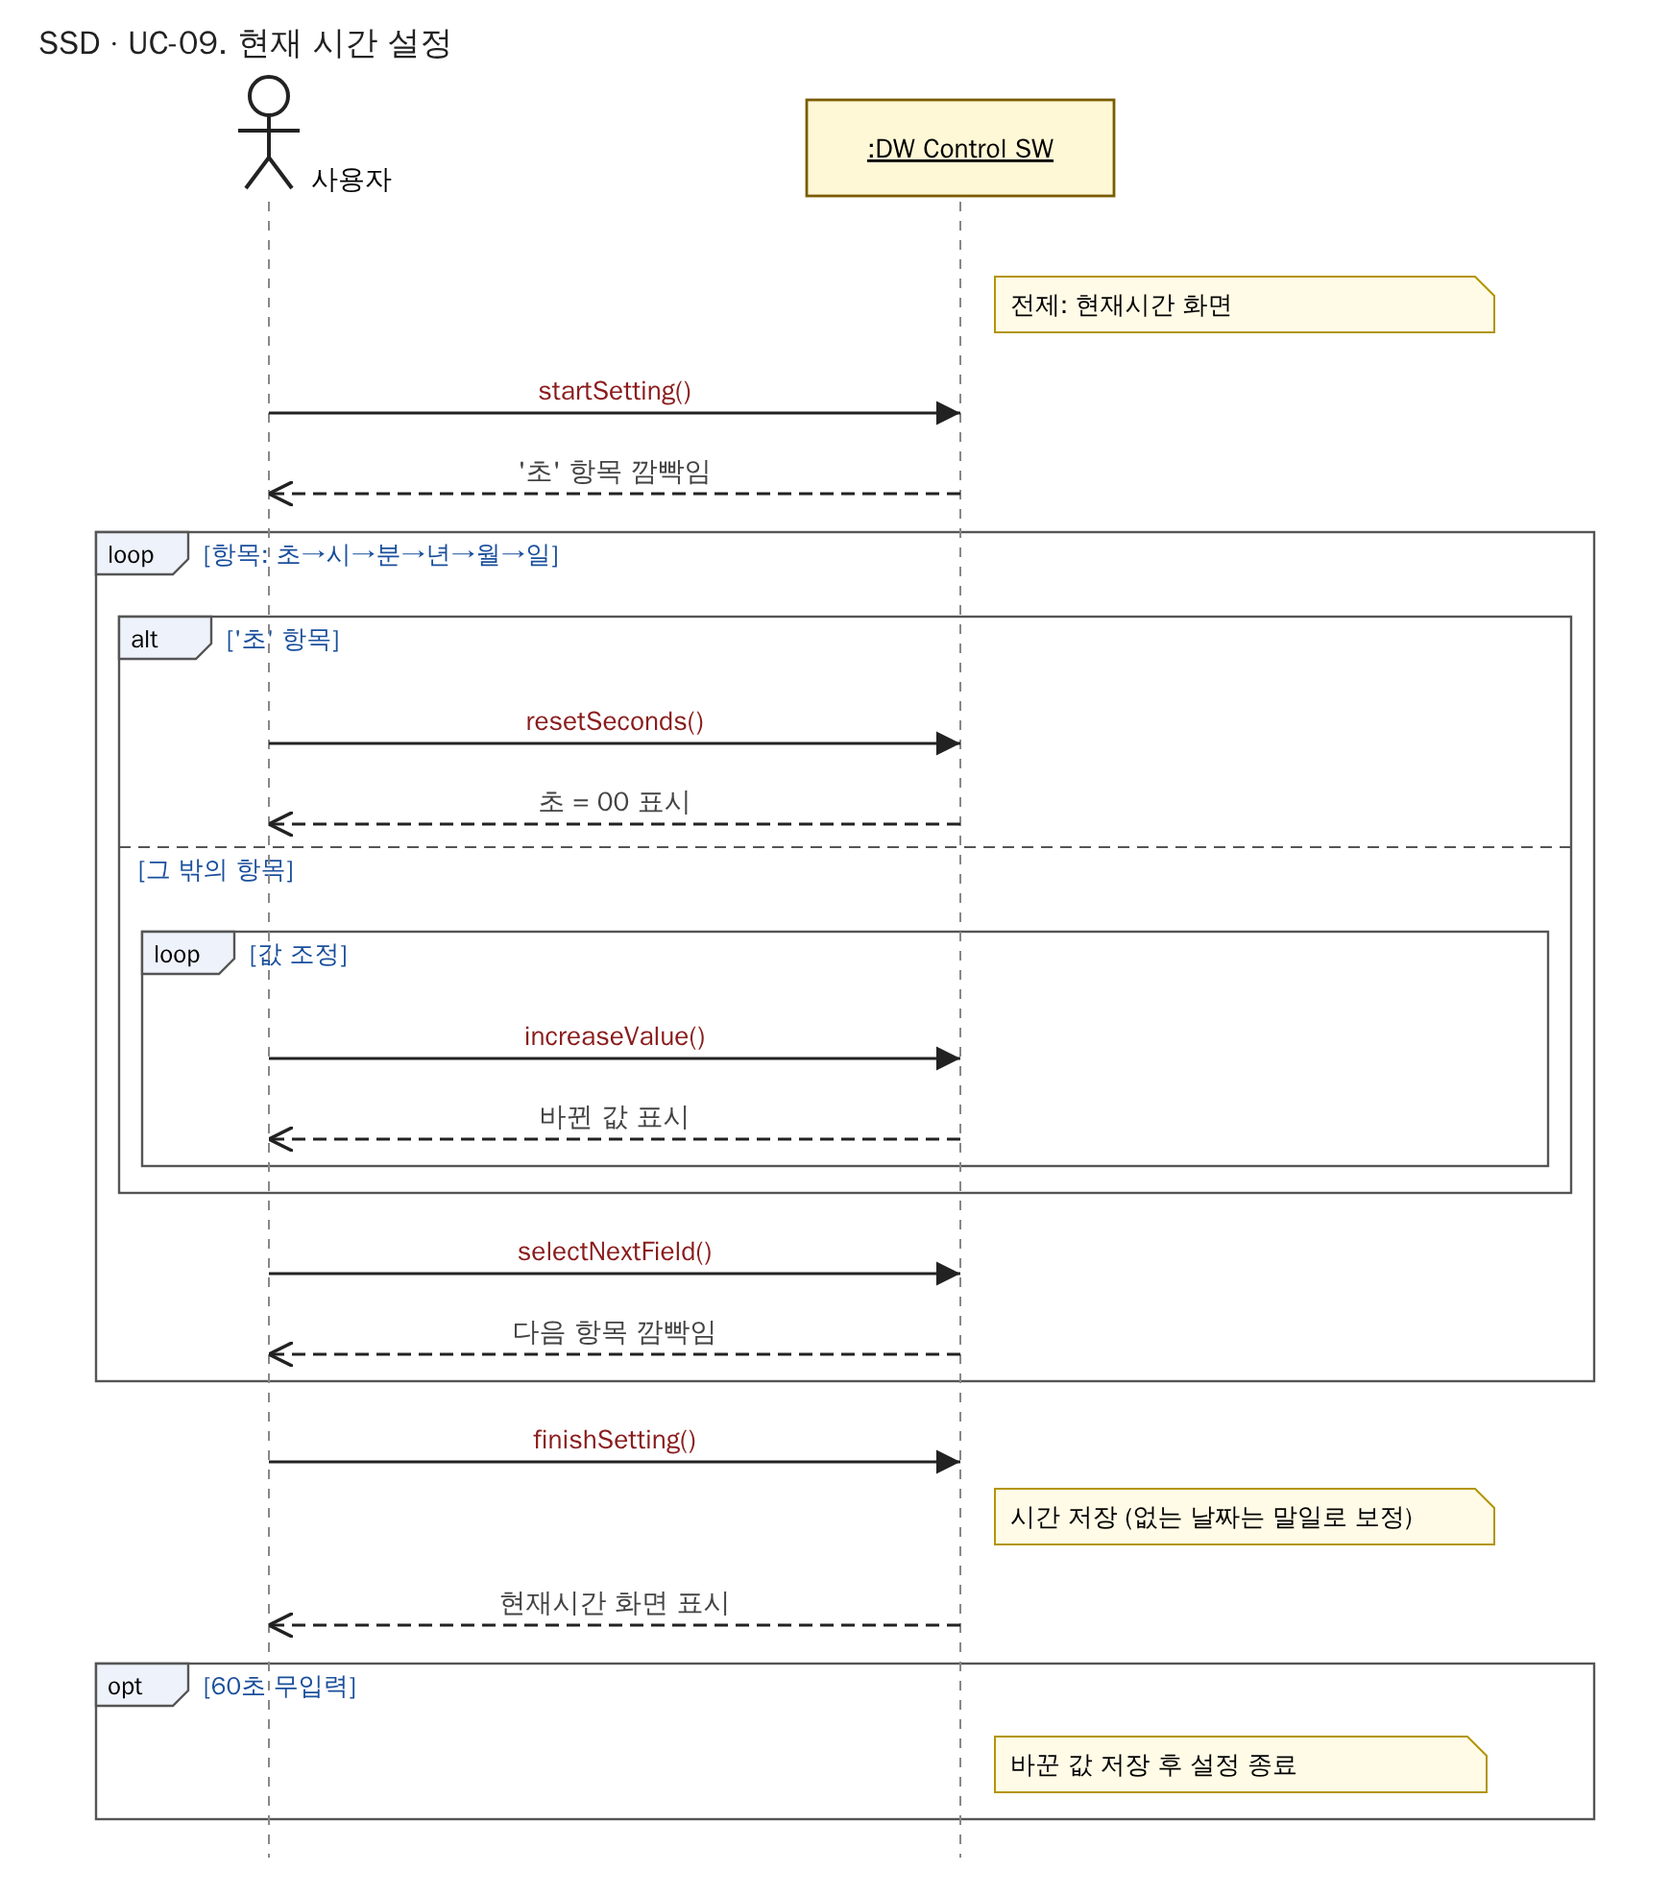
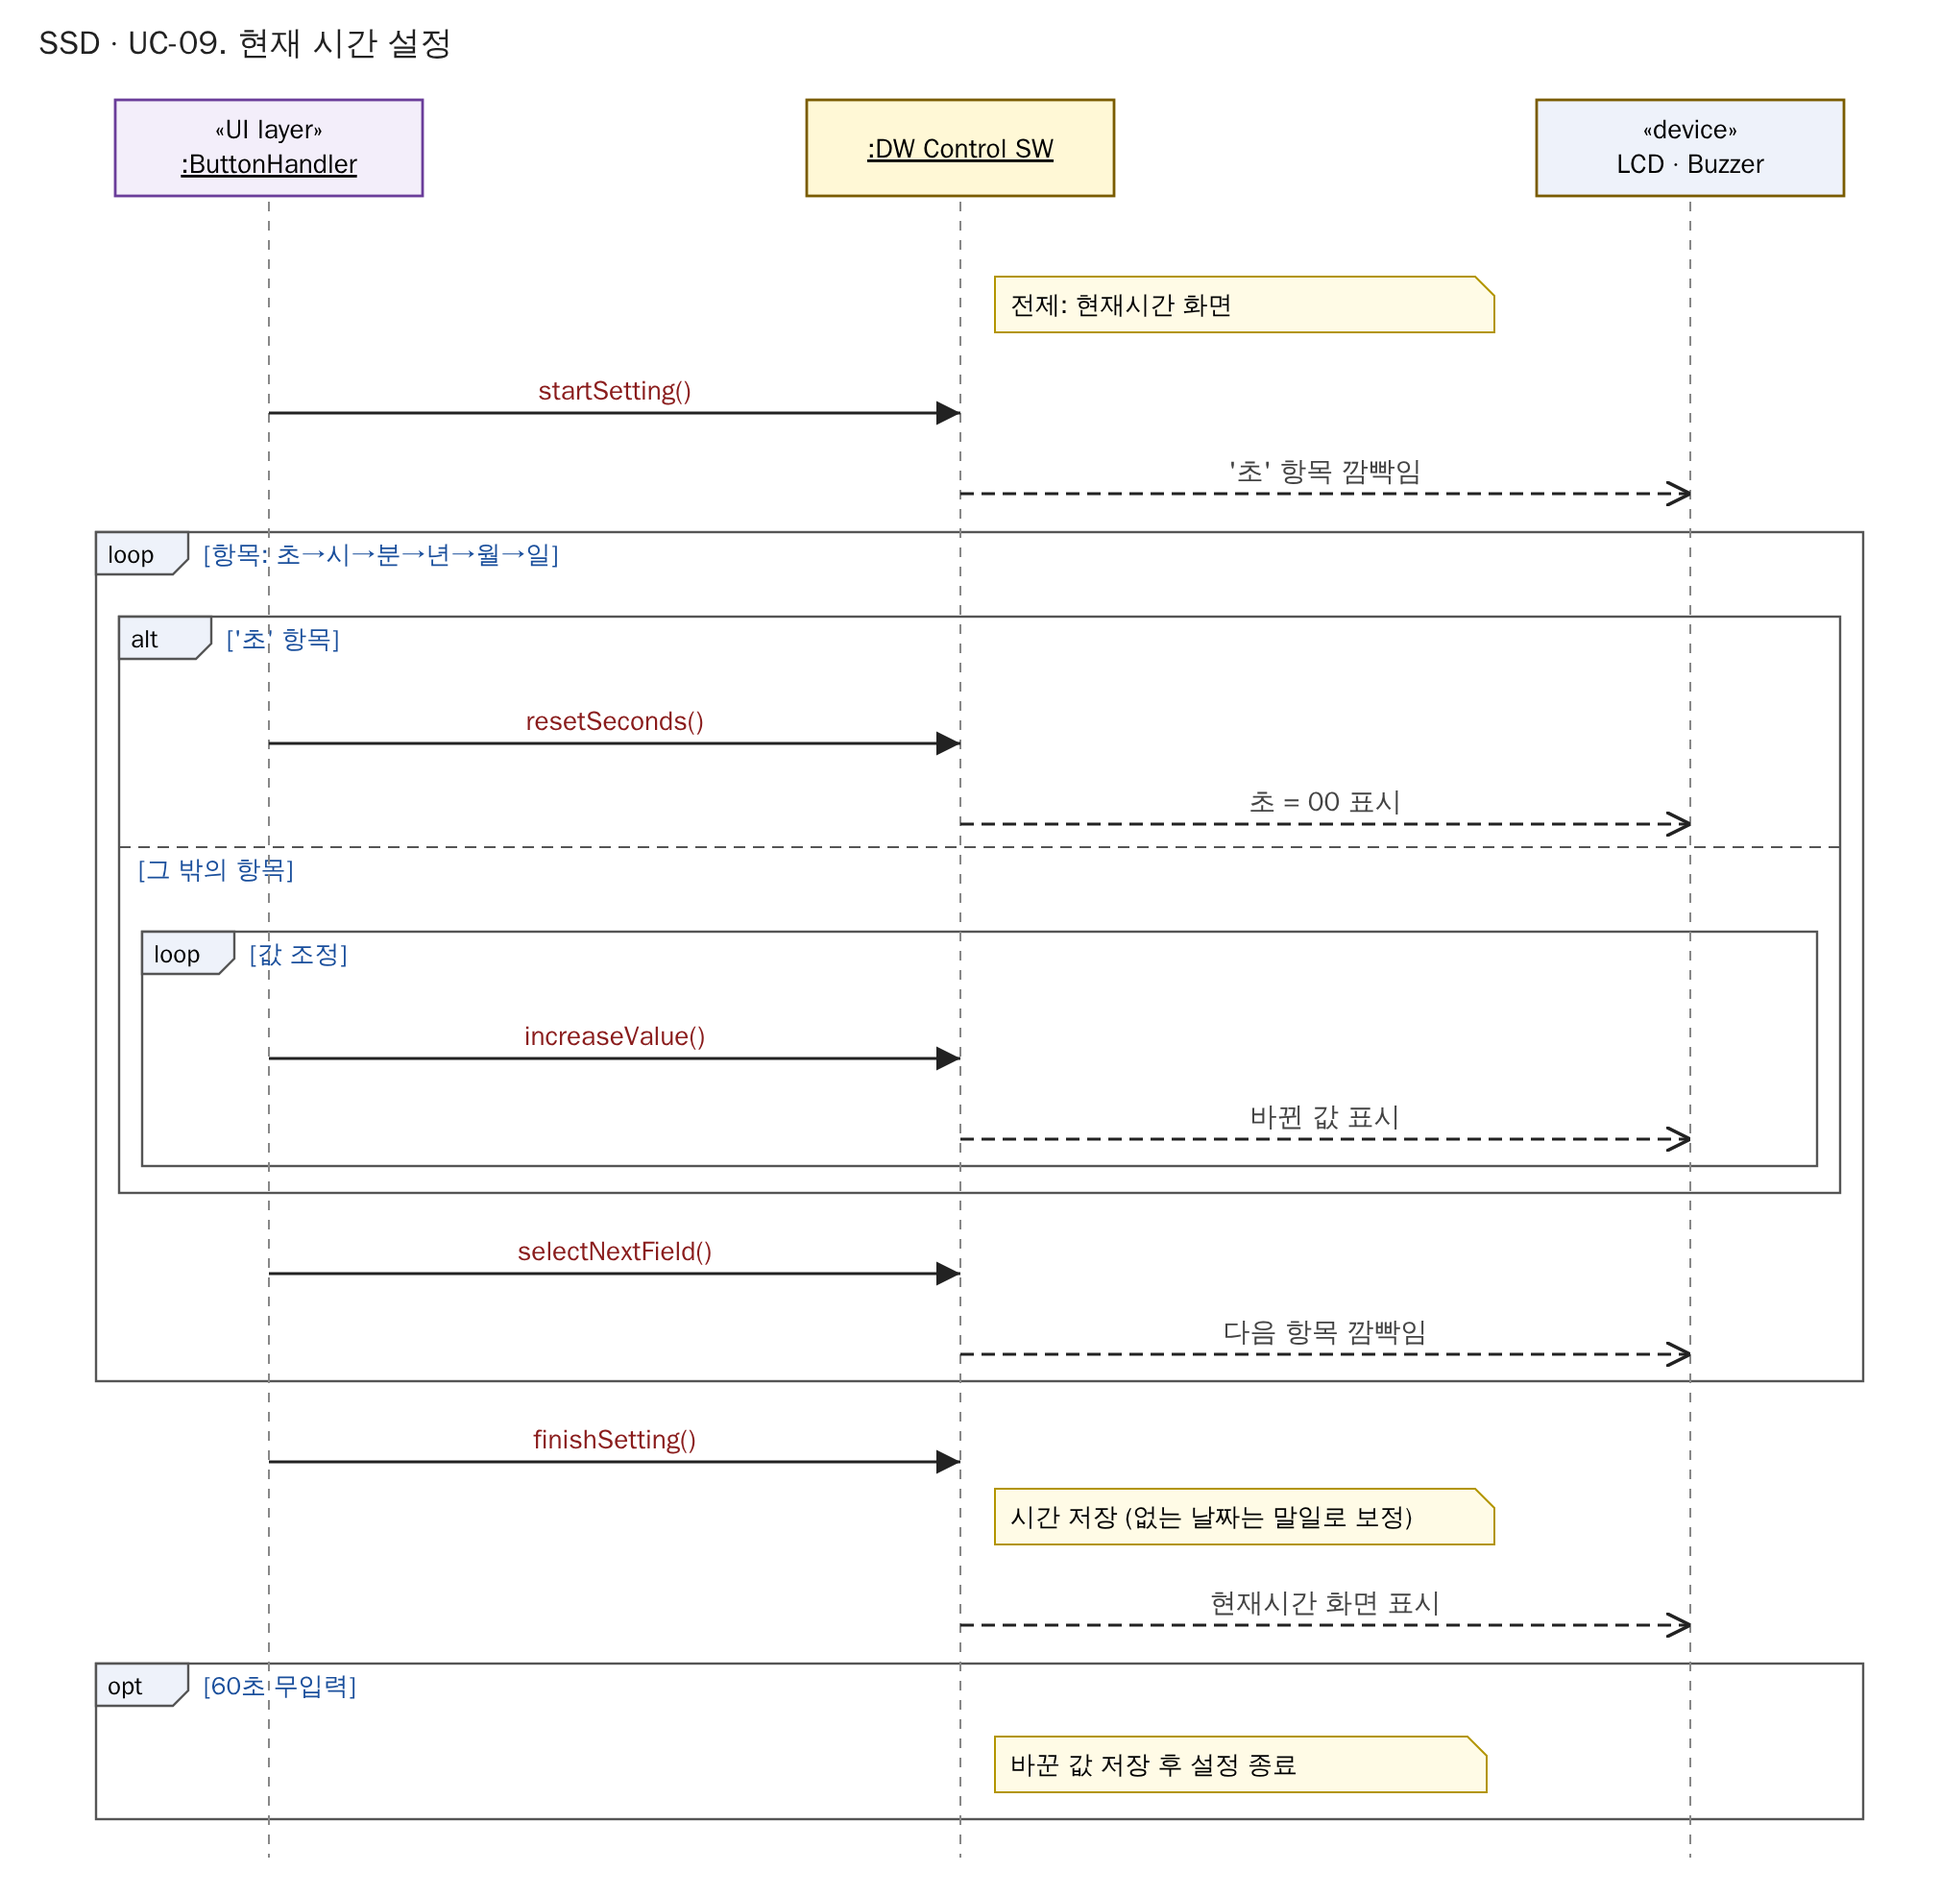
Use ButtonHandler as SSD event source and route outputs to LCD/Buzzer
Claude-Session: https://claude.ai/code/session_01QzoU77NBfd4KbyvbPRCZW3

diff --git a/docs/OOAD/practice/DigitalWatch_UseCases.md b/docs/OOAD/practice/DigitalWatch_UseCases.md
@@ -260,7 +260,8 @@ Evident 9개, Hidden 9개.
 
 - 편집용 원본: [ssd/DigitalWatch_SSD.drawio](ssd/DigitalWatch_SSD.drawio) (UC마다 한 페이지, 12페이지)
 - system event 이름은 의도 수준이다. 버튼 → System Operation 변환은 시스템 밖의 ButtonHandler(UI 계층)가 맡는다(1장, 2장 계층 구조, 7.2절 매핑 표).
-- 시스템을 black box(`:DW Control SW`)로 놓고, 외부에서 들어오는 **system event**와 시스템의 응답(LCD 표시, 부저)만 그렸다.
+- 시스템을 black box(`:DW Control SW`)로 놓고, 외부에서 들어오는 **system event**와 시스템의 응답만 그렸다.
+- lifeline은 System Context Diagram의 외부 요소와 같다: system event를 보내는 `«UI layer» :ButtonHandler`와 `«device» Time Source`, 응답(화면 표시, 백라이트, 경보음)을 받는 `«device» LCD · Buzzer`.
 - system event 이름은 **버튼이 아니라 의도 수준**으로 지었다(슬라이드 102: `scan()`보다 `enterItem()`). 버튼 매핑은 아래 System Operations 표에 따로 적었다.
 - Hidden UC는 Use Case Diagram에서는 Actor가 없지만, SSD에서는 사건을 일으키는 외부 장치가 필요하므로 `«device» Time Source`를 lifeline으로 그렸다.
 - 화면 표시 UC(UC-03 ~ UC-08)는 외부 event가 없으므로 따로 SSD를 그리지 않았다. 다른 SSD의 응답 메시지("~ 화면 표시")로 나타난다.
